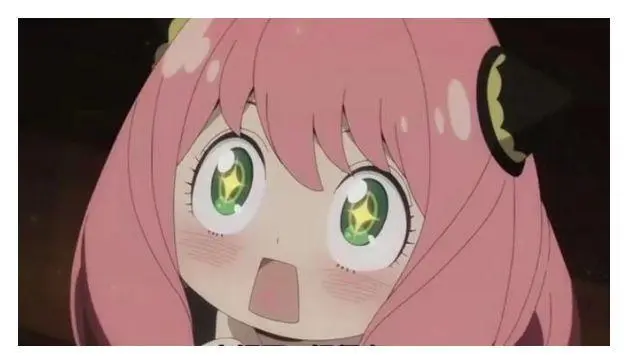
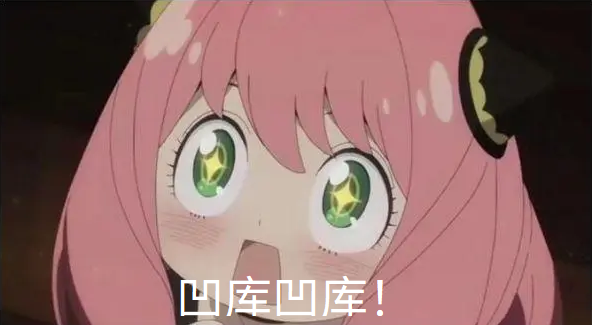
zz

diff --git a/站务/新人报到/丁尔男.md b/站务/新人报到/丁尔男.md
@@ -1,0 +1,9 @@
+## 丁尔男
+
+各位凹库同仁大家好！编译器 wasm 后端和运行时是我目前的主要开发方向。希望在不久的将来使用凹语言做一些小游戏。
+
+除码农身份之外，我是个海水缸玩家、园艺新手，养了两条分别名为“汉堡”和“皮皮”的秋田犬：
+
+![](res/%E4%B8%81%E5%B0%94%E7%94%B7/1.jpg)
+
+欢迎同好者来撩，凹库凹库！

diff --git a/README.md b/README.md
@@ -34,7 +34,7 @@ waku
   |
   |- 站务--------------------凹库站务
      |- 灌水
-     |- 新人报道-------------新人自我介绍
+     |- 新人报到-------------新人自我介绍
      |- 站务讨论-------------凹库功能讨论、建站提议
 ```
 ---
